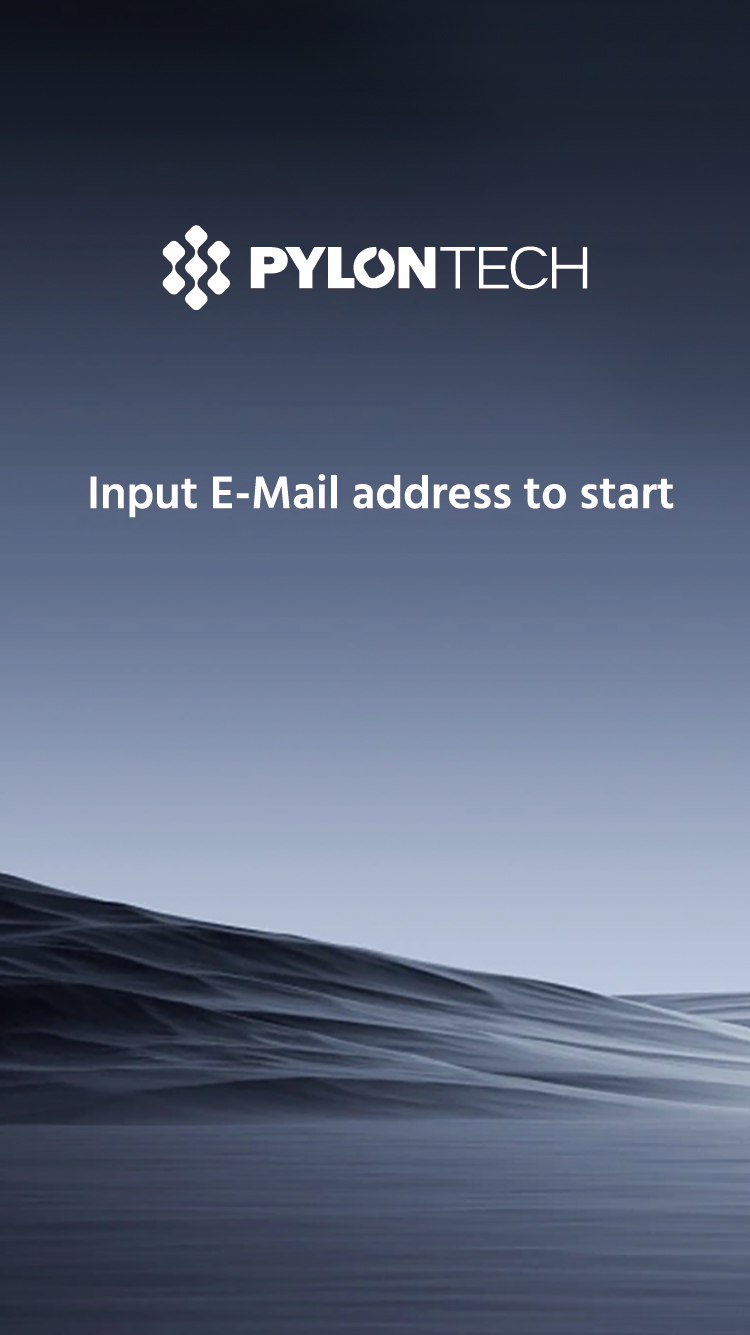
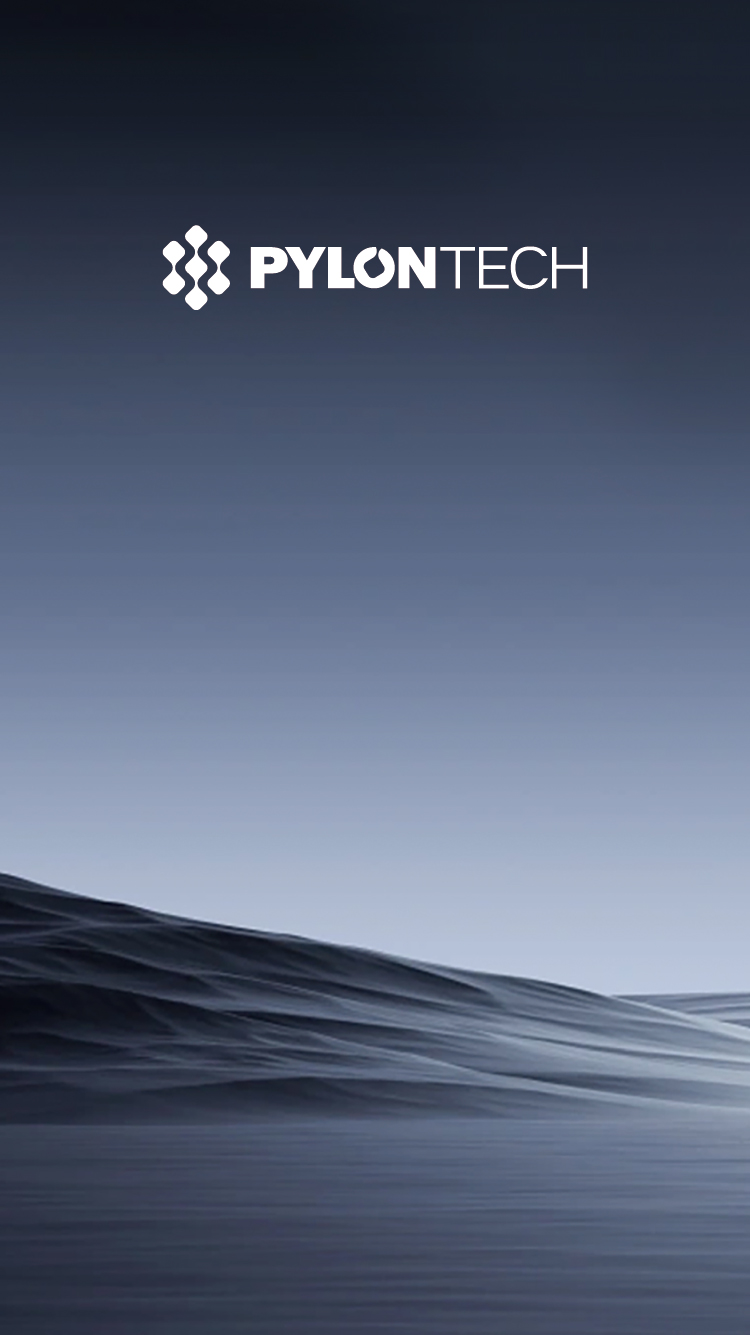
不在区分，2，4 点

Changed region(s): [[0.3373, 0.3378, 0.6747, 0.3993], [0.1227, 0.3378, 0.3067, 0.3993], [0.7053, 0.3378, 0.8893, 0.3993]]

diff --git a/src/components/Home copy 2.vue b/src/components/Home copy 2.vue
@@ -4,21 +4,11 @@
     <img :src="imageUrl" class="w-screen h-svh" />
     <!-- 其他元素 -->
 
-    <img
-      :src="imageUrl3"
-      :style="{
-        top: elementTop + 'px',
-        left: '50%',
-        width: elementW2 + 'px',
-        transform: 'translateX(-50%)',
-      }"
-      class="absolute"
-    />
     <input
       type="text"
       class="rounded-full p-3 text-black absolute"
       :style="{
-        top: elementTop + 80 + 'px',
+        top: elementTop + 'px',
         transform: 'translate(-50%, -50%)',
         width: elementW + 'px',
       }"
@@ -29,7 +19,7 @@
     <img
       :src="imageUrl2"
       :style="{
-        top: elementTop + 40 + 80 + 'px',
+        top: elementTop + 40 + 'px',
         width: elementW + 'px',
         left: '50%',
         transform: 'translateX(-50%)',
@@ -50,7 +40,6 @@ import { useRouter } from "vue-router";
 
 import imageUrl from "../assets/es/01Input/InputBG.jpg";
 import imageUrl2 from "../assets/es/01Input/SubmitBtn.png";
-import imageUrl3 from "../assets/es/01Input/Inputprompt.png";
 
 import homeInfoStore from "../store/home";
 
@@ -62,7 +51,6 @@ const router = useRouter();
 
 const elementTop = ref(0);
 const elementW = ref(0);
-const elementW2 = ref(0);
 
 const email = ref("");
 defineProps({
@@ -161,16 +149,13 @@ onBeforeMount(() => {
     const screenWidth = window.innerWidth;
 
     // 假设元素在原始图片中距离顶部的距离为1306像素
-    // const distanceFromTopOriginal = 585;
-    const distanceFromTopOriginal = 470;
+    const distanceFromTopOriginal = 585;
 
     // 计算元素在屏幕中的相对位置
     elementTop.value =
       (distanceFromTopOriginal / originalHeight) * screenHeight;
 
     elementW.value = (556 / originalWidth) * screenWidth;
-
-    elementW2.value = (584 / 750) * screenWidth;
   };
 });
 </script>

diff --git a/src/components/TaskTwo.vue b/src/components/TaskTwo.vue
@@ -28,6 +28,17 @@
       @update:isShowDone="isShowDone = $event"
     />
 
+    <img
+      v-if="isShowBack"
+      :src="back"
+      @click="backclicked"
+      class="w-[124px] h-[45px] fixed"
+      :style="{
+        top: elementTop + 'px',
+        left: '50%',
+        transform: 'translateX(-50%)',
+      }"
+    />
     <button
       @click.stop.prevent="backclicked"
       class="w-[130px] h-[60px] fixed"
@@ -66,6 +77,7 @@ const touches = ref([]);
 const elementTop = ref(0);
 
 const showImgSrc = ref(tasktun);
+const isShowBack = ref(true);
 
 const isShowDone = ref(false);
 const router = useRouter();
@@ -104,6 +116,7 @@ const handleUserData = () => {
   let two = tasktwo.value;
 
   if (one + two == 2) {
+    isShowBack.value = false;
     console.log("两个任务都完成了");
     showImgSrc.value = tasktdone;
 
@@ -111,6 +124,7 @@ const handleUserData = () => {
       isShowDone.value = true;
     }, 1250);
   } else if (two == 1) {
+    isShowBack.value = false;
     console.log("任务2 已经完成");
     showImgSrc.value = tasktdone;
   }
@@ -138,7 +152,7 @@ const onTouchStart = (event) => {
     y: touch.clientY - touchAreaRect.top,
   }));
 
-  if (touches.value.length == 4) {
+  if (touches.value.length == 2 || touches.value.length == 4) {
     handleTouchEnd();
   }
 };

diff --git a/src/components/TaskOne.vue b/src/components/TaskOne.vue
@@ -29,9 +29,17 @@
       @update:isShowDone="isShowDone = $event"
     />
 
-    <!-- <div class="fixed top-2 left-2 w-[40px] h-[40px]">
-      <img :src="back" @click="backclicked" />
-    </div> -->
+    <img
+      v-if="isShowBack"
+      :src="back"
+      @click="backclicked"
+      class="w-[124px] h-[45px] fixed"
+      :style="{
+        top: elementTop + 'px',
+        left: '50%',
+        transform: 'translateX(-50%)',
+      }"
+    />
 
     <button
       @click.stop.prevent="backclicked"
@@ -72,6 +80,8 @@ const touches = ref([]);
 const showImgSrc = ref(taskoneun);
 
 const isShowDone = ref(false);
+const isShowBack = ref(true);
+
 const router = useRouter();
 const elementTop = ref(0);
 
@@ -111,6 +121,7 @@ const handleUserData = () => {
 
   if (one + two == 2) {
     console.log("两个任务都完成了");
+    isShowBack.value = false;
     showImgSrc.value = taskonedone;
 
     setTimeout(() => {
@@ -118,6 +129,7 @@ const handleUserData = () => {
     }, 1250);
   } else if (one == 1) {
     console.log("任务1 已经完成");
+    isShowBack.value = false;
     showImgSrc.value = taskonedone;
   }
 };
